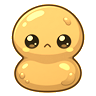
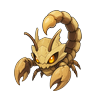
Replace shared slime blobs with distinct themed enemy sprites.
Each map's basic/elite enemies now use unique silhouettes (goblin, zombie,
beast, sandfiend, etc.) so they are readable at a glance. Elite affix rings
and orbit orbs were also clarified so skill elites stay distinguishable.

diff --git a/scripts/Enemy.cs b/scripts/Enemy.cs
@@ -339,10 +339,23 @@ public partial class Enemy : CharacterBody2D
 				"summon" => new Color(0.4f, 1f, 0.45f),
 				_ => new Color(1f, 0.9f, 0.2f),
 			};
+			// 词条色环贴身描边：远距离也能和贴图一起认出精英类型
+			float ringR = BodyRadius + 6f;
+			DrawArc(Vector2.Zero, ringR, 0f, Mathf.Tau, 28, new Color(mark.R, mark.G, mark.B, 0.55f), 3.2f);
 			DrawCircle(new Vector2(0, barY - 8f), 5, mark);
 			// 冲锋预警：即将冲刺时闪一下
 			if (Affix == "melee" && !_charging && _chargeCd < 0.35f)
 				DrawArc(Vector2.Zero, BodyRadius + 10f, 0f, Mathf.Tau, 20, new Color(1f, 0.3f, 0.15f, 0.55f), 2.5f);
+			if (Affix == "shield")
+				DrawArc(Vector2.Zero, BodyRadius + 14f, 0f, Mathf.Tau, 24, new Color(0.55f, 0.85f, 1f, 0.4f), 2f);
+			if (Affix == "fire_ground")
+			{
+				for (int i = 0; i < 3; i++)
+				{
+					float a = i * Mathf.Tau / 3f + (float)Time.GetTicksMsec() * 0.004f;
+					DrawCircle(Vector2.Right.Rotated(a) * (BodyRadius + 18f), 3.5f, new Color(1f, 0.45f, 0.1f, 0.7f));
+				}
+			}
 		}
 	}
 }

diff --git a/scripts/EnemyOrbitBall.cs b/scripts/EnemyOrbitBall.cs
@@ -40,9 +40,21 @@ public partial class EnemyOrbitBall : Node2D
 
 	public override void _Draw()
 	{
-		// 外环 + 内核，远距离也容易辨认旋转轨迹
-		DrawCircle(Vector2.Zero, 12f, new Color(0.55f, 0.2f, 0.95f, 0.85f));
-		DrawCircle(Vector2.Zero, 7f, new Color(0.95f, 0.65f, 1f, 0.95f));
-		DrawArc(Vector2.Zero, 14f, 0f, Mathf.Tau, 16, new Color(0.8f, 0.4f, 1f, 0.45f), 2f);
+		// 紫晶刺球：菱形核 + 尖刺，避免再画成双圆史莱姆
+		var core = new Color(0.72f, 0.35f, 1f, 0.95f);
+		var glow = new Color(0.95f, 0.7f, 1f, 0.55f);
+		var tip = new Color(0.55f, 0.2f, 0.95f, 0.9f);
+		DrawCircle(Vector2.Zero, 11f, glow);
+		DrawColoredPolygon(new[]
+		{
+			new Vector2(0, -10), new Vector2(8, 0), new Vector2(0, 10), new Vector2(-8, 0),
+		}, core);
+		for (int i = 0; i < 6; i++)
+		{
+			float a = i * Mathf.Tau / 6f + Angle * 0.35f;
+			var dir = Vector2.Right.Rotated(a);
+			DrawLine(dir * 6f, dir * 15f, tip, 2.2f);
+		}
+		DrawCircle(new Vector2(-2, -2), 2.2f, new Color(1f, 0.9f, 1f, 0.85f));
 	}
 }
